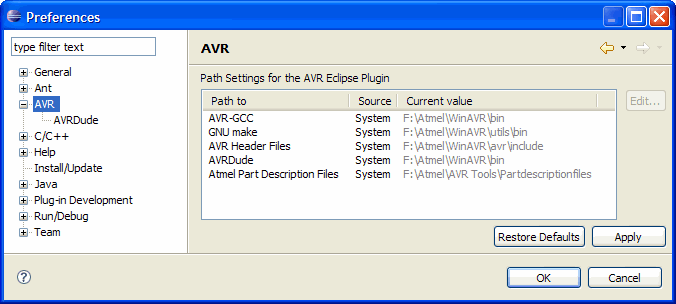
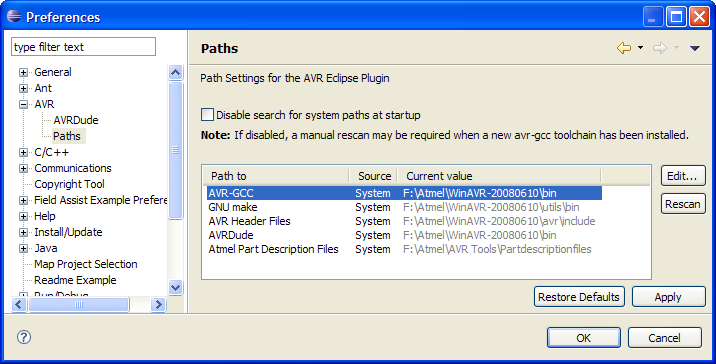
Some more work on the User Manual for the 2.3 release.
svn path=/avr_eclipse_plugin_2.0/trunk/; revision=625

diff --git a/de.innot.avreclipse.doc/concepts/avr_path_management.html b/de.innot.avreclipse.doc/concepts/avr_path_management.html
@@ -5,6 +5,11 @@
 <meta http-equiv="Content-Type" content="text/html; charset=utf-8">
 <title>AVR Plugin path management</title>
 <link rel="stylesheet" type="text/css" href="../book.css">
+<style type="text/css">
+<!--
+.style1 {color: #000000}
+-->
+</style>
 </head>
 <body>
 <h1>AVR Plugin path management</h1>
@@ -12,7 +17,7 @@
 <p>Early versions of the AVR Eclipse Plugin (prior 2.1) relied on the system path of the development system to execute the required tools (<em>avr-gcc</em>, <em>avr-size</em>, <em>make</em> etc.)</p>
 <p>This had some drawbacks. </p>
 <ul>
-  <li>On non-Windows platforms the avr-gcc toolchain supplied by the distributions is often out-of-date and does not contain the latest patches. Therefore many AVR developers will probable compile the avr-gcc toolchain themself, but keep it in a seperate location from the distribution supplied toolchain.</li>
+  <li>On non-Windows platforms the avr-gcc toolchain supplied by the distributions is often out-of-date and does not contain the latest patches. Therefore many AVR developers will probable compile the avr-gcc toolchain themselves, but keep it in a separate location from the distribution supplied toolchain.</li>
   <li>On Windows the winAVR toolchain is the de-facto standard and it is usually up-to-date. But even here the user might want to install multiple versions of winAVR, for example to try out newer versions while keeping the previous version. Besides this, the winAVR installer asks if the user wants to include winAVR in the system paths, which he might decline for some reason.</li>
 </ul>
 <p>In both cases, the system path might not point to the toolchain the plugin user actually wants to use.</p>
@@ -28,7 +33,7 @@
 <p>The paths are taken from the Windows registry for the <em>winAVR</em> and <em>AVR Tools</em> applications.</p>
 <h4>non-Windows</h4>
 <p>The plugin currently assumes that all non-Windows platforms are Posix based. </p>
-<p>Each path has a test file associated with it, which will be searched for. To find this test file the following external commands are executed in order until a successfull match is found:</p>
+<p>Each path has a test file associated with it, which will be searched for. To find this test file the following external commands are executed in order until a successful match is found:</p>
 <ol>
   <li><em>which</em> command: Test if the test file is on the system $PATH</li>
   <li><em>find</em> command: if the test file is not on the system $PATH, then the plugin will start searching the following directories (and their subdirectories)  in  order:<br>  
@@ -57,12 +62,14 @@
       </tr>
     </table>
   </li>
-  <li>If all searches were unsuccessfull an empty path is used.</li>
+  <li>If all searches were unsuccessful an empty path is used.</li>
 </ol>
-<p>As these searches may take some time, they are performed upon plugin startup and run in the background. However, if the searches have not been finished by the time the results are actually used, Eclipse will block until finished.</p>
+<p>As these searches may take some time, they are performed at plugin startup and run in the background. However, if the searches have not been finished by the time the results are actually used, Eclipse will block until finished.<br>
+  <br>
+As this startup delay can get quite long on large development systems, it can be inhibited on the path preference page.</p>
   </li>
-<li><h3>Bundle paths</h3>
-<p>As of version 2.1 this is not yet implemented.</p>
+  <li><h3>Bundle paths</h3>
+<p>As of version 2.3 this is not yet implemented.</p>
 </li>
 <li>
 <h3>Custom paths</h3>
@@ -82,73 +89,44 @@
     <th valign="top" scope="col">Test File</th>
   </tr>
   <tr>
-    <td valign="top" nowrap><p>AVR-GCC</p>
-    </td>
+    <td valign="top" nowrap><p>AVR-GCC</p>    </td>
     <td valign="top"><p>Path to the directory containing the AVR-GCC toolchain.</p>
     <p>This directory must contain the avr-gcc compiler and all other used tools like avr-objdump, avr-size etc.</p></td>
     <td valign="top"><p>yes</p>    </td>
-    <td valign="top"><p>avr-gcc(.exe)</p>
-    </td>
+    <td valign="top"><p>avr-gcc(.exe)</p>    </td>
   </tr>
   <tr>
-    <td valign="top" nowrap><p>GNU make</p>
-    </td>
-    <td valign="top"><p>Path to the directory containing a GNU make. This is mainly used on Windows, where make is part of the winAVR distribution</p>
-    </td>
-    <td valign="top"><p>yes</p>
-    </td>
-    <td valign="top"><p>make(.exe)</p>
-    </td>
+    <td valign="top" nowrap><p>GNU make</p>    </td>
+    <td valign="top"><p>Path to the directory containing a GNU make. This is mainly used on Windows, where make is part of the winAVR distribution</p>    </td>
+    <td valign="top"><p>yes</p>    </td>
+    <td valign="top"><p>make(.exe)</p>    </td>
   </tr>
   <tr>
-    <td valign="top" nowrap><p>AVR Header Files</p>
-    </td>
-    <td valign="top"><p>Path to the directory containg the avr includes. This is currently only used for the AVR Device Explorer view to locate the &lt;avr/io.h&gt; file. It is not used for the compiler, as the avr-gcc compiler usually knows where to find its header files.</p>
-    </td>
-    <td valign="top"><p>no</p>
-    </td>
-    <td valign="top"><p>avr/io.h</p>
-    </td>
+    <td valign="top" nowrap><p>AVR Header Files</p>    </td>
+    <td valign="top"><p>Path to the directory containing the avr includes. This is currently only used for the AVR Device Explorer view to locate the &lt;avr/io.h&gt; file. It is not used for the compiler, as the avr-gcc compiler usually knows where to find its header files.</p>    </td>
+    <td valign="top"><p>no</p>    </td>
+    <td valign="top"><p>avr/io.h</p>    </td>
   </tr>
   <tr>
-    <td valign="top" nowrap><p class="unused">AVRDude*</p>
-    </td>
-    <td valign="top"><p class="unused">Path to the directory containing the avrdude executable.</p>
-    </td>
-    <td valign="top"><p class="unused">no</p>
-    </td>
-    <td valign="top"><p class="unused">avrdude(.exe)</p>
-    </td>
+    <td valign="top" nowrap><p class="unused style1">AVRDude</p>    </td>
+    <td valign="top"><p class="unused style1">Path to the directory containing the avrdude executable.</p>    </td>
+    <td valign="top"><p class="unused style1">no</p>    </td>
+    <td valign="top"><p class="unused style1">avrdude(.exe)</p>    </td>
   </tr>
   <tr>
-    <td valign="top" nowrap><p class="unused">AVRDude.conf*</p>
-    </td>
-    <td valign="top"><p class="unused">Path to the directory containing the avrdude configuration file.</p>
-    </td>
-    <td valign="top"><p class="unused">no</p>
-    </td>
-    <td valign="top"><p class="unused">avrdude.conf</p>
-    </td>
-  </tr>
-  <tr>
-    <td valign="top" nowrap><p class="unused">Atmel Part Description Files*</p>
-    </td>
-    <td valign="top"><p class="unused">Path to the partdescriptionfiles directory, which is part of the AVR Tools application from Atmel</p>
-    </td>
-    <td valign="top"><p class="unused">no</p>
-    </td>
-    <td valign="top"><p class="unused">atmega16.xml</p>
-    </td>
+    <td valign="top" nowrap><p class="unused">Atmel Part Description Files*</p>    </td>
+    <td valign="top"><p class="unused">Path to the part description files directory, which is part of the AVR Tools application from Atmel</p>    </td>
+    <td valign="top"><p class="unused">no</p>    </td>
+    <td valign="top"><p class="unused">atmega16.xml</p>    </td>
   </tr>
 </table>
-<p>*unused in version 2.1 of the plugin. These paths will be used in future versions of the plugin</p>
+<p>*unused in version 2.3 of the plugin. This path will be used in future versions of the plugin</p>
   <p>&nbsp;</p>
   <p><a href="concepts.html"><img src="../images/ngback.gif" alt="backarrow"></a> <a href="concepts.html"><strong>Back: Concepts</strong></a></p>
   <div class="categoryrelated">Related Tasks</div>
   <a href="../tasks/task_path_preferences.html">AVR Paths Preferences</a>
 <p>&nbsp;</p>
-<div class="copyright">
-    <p>&copy; 2007 Thomas Holland</p>
+<div class="copyright">&copy; 2007, 2008 Thomas Holland
 </div>
 </body>
 </html>

diff --git a/de.innot.avreclipse.doc/tasks/task_path_preferences.html b/de.innot.avreclipse.doc/tasks/task_path_preferences.html
@@ -11,9 +11,8 @@
 <p>The plugin needs to know the paths to the avr-gcc toolchain and some other files on the development system. Usually these paths are included in the <em>$PATH</em> environment variable, however, especially on Linux distributions the included avr-gcc toolchain might be out of date or multiple versions of the avr-gcc toolchain might be installed.</p>
 <p>The plugin tries to determine all required paths at runtime. Refer to <a href="../concepts/avr_path_management.html">AVR Plugin Path Management</a> to see how the system paths are determined.</p>
 <p>If you need to change the determined defaults, e.g. because you use multiple toolchain versions or the no default could be determined, you can change the paths manually.</p>
-<p>&nbsp;</p>
-<p class="UILabel">Select <em class="UILabel">Window &gt; Preferences...</em> and select the <EM class="UILabel">AVR</em> tree item</p>
-<p><img src="images/path_preference_page1.png" alt="Path Preference Page" ></p>
+<p class="UILabel">Select <em class="UILabel">Window &gt; Preferences...</em> and select the <EM class="UILabel">AVR &gt; Paths</em> tree item</p>
+<p><img src="images/path_preference_page1.png" alt="Path Preference Page" width="716" height="364" ></p>
 <p>Here all Paths are at their system default. Note that all entries are paths, even if they refer to a single file. In these cases they refer to the parent directory of the file.</p>
 <p>Two different icons show warnings and errors:</p>
 <table border="1" cellspacing="1" cellpadding="3">
@@ -42,7 +41,7 @@
     <td valign="top"><p>Bundled</p>
     <p>&nbsp;</p></td>
     <td valign="top"><p>Select a bundled AVR GCC Toolchain</p>
-      <p><strong>Note: </strong>Not yet supported in the 2.1 version of the plugin      </p>
+      <p><strong>Note: </strong>Not yet supported in the 2.3 version of the plugin      </p>
     </td>
   </tr>
   <tr>

diff --git a/de.innot.avreclipse.doc/tasks/task_upload_to_target.html b/de.innot.avreclipse.doc/tasks/task_upload_to_target.html
@@ -1,0 +1,18 @@
+<!DOCTYPE HTML PUBLIC "-//W3C//DTD HTML 4.01//EN" "http://www.w3.org/TR/html4/strict.dtd">
+<html>
+<head>
+<meta http-equiv="Content-Type" content="text/html; charset=utf-8">
+<title>Upload Project to Target MCU</title>
+<link href="../book.css" rel="stylesheet" type="text/css">
+</head>
+
+<body>
+<h1>Upload Project to Target MCU</h1>
+<p>At some point in AVR project development you need to deploy your application to a real AVR processor. This is supported by the AVR Eclipse Plugin with the help of the external programm <a href="http://www.nongnu.org/avrdude/" target="_blank">avrdude</a>. Avrdude stands for <u>AVR D</u>ownloader / <u>U</u>ploa<u>de</u>r and is an open source utility to upload/download and manipulate the ROM and EEPROM contents of many AVR microcontrollers using the in-system programming technique (ISP).</p>
+<p>&nbsp;</p>
+<p>&nbsp;</p>
+<div class="categoryrelated">Related Concepts</div>
+<a href="../concepts/avr_path_management.html">AVR Plugin Path Management</a>
+<div class="copyright">&copy; 2008 Thomas Holland</div>
+</body>
+</html>

diff --git a/de.innot.avreclipse.doc/tasks/tasks.html b/de.innot.avreclipse.doc/tasks/tasks.html
@@ -15,6 +15,10 @@
   <blockquote>
     <p><a href="task_path_preferences.html">AVR Path Preferences</a></p>
   </blockquote>
+  <p>Projects</p>
+  <blockquote>
+  <p><a href="task_upload_to_target.html">Upload Project to Target MCU</a></p>
+  </blockquote>
   <p>Properties</p>
   <blockquote>
     <p><a href="task_change_target.html">Change Target Hardware</a></p>
